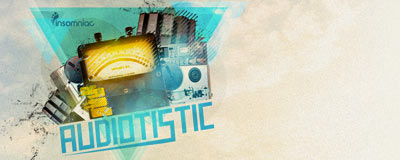
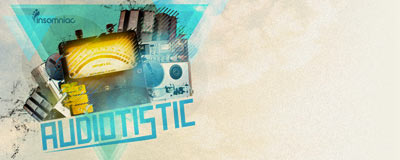
quickpush

diff --git a/app/assets/stylesheets/stations.css.scss b/app/assets/stylesheets/stations.css.scss
@@ -215,26 +215,26 @@ $station-small-image: 32px;
 }
 
 .promo {
-  margin: -15px -3% 25px -15px;
+  margin: -15px -2% 25px -15px;
   padding-left: 15px;
   height: 185px;
   overflow: hidden;
 
   a {
-    width: 22%;
+    width: 23%;
     max-width: 500px;
     height: 160px;
-    margin: 15px 3% 25px 0;
+    margin: 15px 2% 25px 0;
     float: left;
   }
 }
 
-@media screen and (max-width: 1100px) {
-  .promo a {width: 30.3%;}
+@media screen and (max-width: 1000px) {
+  .promo a {width: 31.3%;}
 }
 
-@media screen and (max-width: 800px) {
-  .promo a {width: 47%;}
+@media screen and (max-width: 700px) {
+  .promo a {width: 48%;}
 }
 
 .promo-title {
